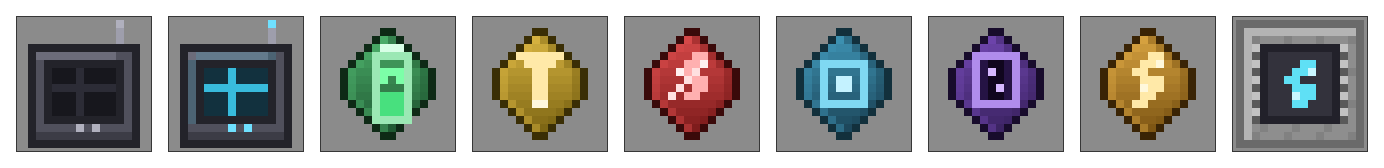
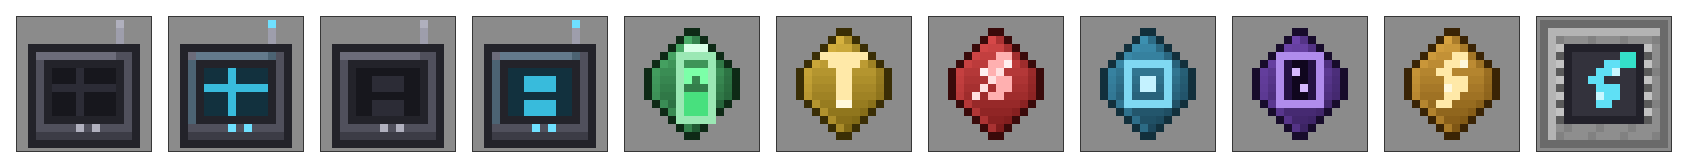
feat: 样板终端按次扣电（无 mixin）+ 快捷键接入 + 文档配图
- 扣电改走 VirtualPatternGrid#setChanged 的输出槽指纹比对：产出新样板扣 40 FE×倍率，
  付不起则回滚到上次保存的状态（样板不产出）。不再需要给 RS 菜单打 mixin（Fabric 侧
  mixin 注解处理器找不到 RS 类混淆映射，方案作废）
- 新增 AbstractWirelessTerminalItem#getStoredEnergy，会话据此判断付得起才扣
- 快捷键改为「打开无线终端」，同时认无线合成终端与无线样板终端
- README 中英加入无线样板终端（简介/内容表/章节/配方/耗电）、CHANGELOG 加 0.4.0 开发段
- gen_readme_images.py 支持新终端：物品图标 + 配方图

diff --git a/rswirelesscrafting-common/src/main/java/com/kokuu/rswirelesscrafting/common/patterngrid/VirtualPatternGrid.java b/rswirelesscrafting-common/src/main/java/com/kokuu/rswirelesscrafting/common/patterngrid/VirtualPatternGrid.java
@@ -30,24 +30,48 @@ import net.minecraft.world.level.block.Blocks;
  *       于是左侧资源栏、配方候选排序、存储读写全部走正常路径。</li>
  * </ul>
  *
- * <p>生命周期与一次开界面等长：界面打开时构造、状态从物品读入；之后任何编辑都经
- * {@link #setChanged()} 写回物品；界面关闭后对象被丢弃（它从未注册进世界，不会泄漏）。
+ * <p><b>扣电与回滚</b>：不需要给 RS 的菜单打 mixin —— 所有编辑最终都会触发 {@link #setChanged()}，
+ * 于是这里对「输出槽里是否冒出了新样板」做一次前后指纹比对：冒出来了就扣一次造样板的电，
+ * 付不起就把状态回滚到上一次保存的样子（样板从输出槽消失），两个加载器行为完全一致。
+ *
+ * <p>生命周期与一次开界面等长：界面打开时构造、状态从物品读入；之后每次编辑都写回物品；
+ * 界面关闭后对象被丢弃（它从未注册进世界，不会泄漏）。
  */
 public class VirtualPatternGrid extends PatternGridBlockEntity {
+    /**
+     * RS 存档里样板输出槽的键名（{@code PatternGridBlockEntity} 的同名私有常量）。
+     */
+    private static final String TAG_PATTERN_OUTPUT = "pattern_output";
+
     private final ItemStack stack;
     private final HolderLookup.Provider registries;
+    private final WirelessPatternGridSession session;
+    /**
+     * 「空输出槽」的序列化指纹：只有与它不同，才说明这次真的产出了样板。
+     */
+    private final String emptyOutputFingerprint;
+    private String outputFingerprint;
+    private CompoundTag lastSavedState;
     /**
      * 灌入存档状态期间置位：{@code loadAdditional} 内部会触发 {@code setChanged}，
      * 若不拦住就会把「只加载了一半」的状态写回物品，把剩下的数据冲掉。
      */
     private boolean loading;
 
-    public VirtualPatternGrid(final ItemStack stack, final Level level, @Nullable final Network network) {
+    public VirtualPatternGrid(final ItemStack stack,
+                              final Level level,
+                              @Nullable final Network network,
+                              final WirelessPatternGridSession session) {
         super(BlockPos.ZERO, Blocks.AIR.defaultBlockState());
         this.stack = stack;
         this.registries = level.registryAccess();
+        this.session = session;
+        this.emptyOutputFingerprint = outputFingerprintOf(serialize());
         setLevel(level);
         loadState();
+        // 载入之后的输出槽状态作为基线：玩家上次没取走的样板不会被重复计费。
+        this.outputFingerprint = outputFingerprintOf(serialize());
+        this.lastSavedState = serialize();
         mainNetworkNode.setNetwork(network);
     }
 
@@ -65,16 +89,44 @@ public class VirtualPatternGrid extends PatternGridBlockEntity {
     }
 
     /**
-     * 所有编辑（摆配方、放样板、切类型、清空）最终都会走到这里。
-     * 这里既不能走原版实现（会加载区块），也正好是「把状态写回物品」的天然时机。
+     * 所有编辑（摆配方、放样板、切类型、清空、产出样板）最终都会走到这里。
+     * 这里既不能走原版实现（会加载区块），也正好是「写回物品 + 结算造样板」的天然时机。
      */
     @Override
     public void setChanged() {
         if (loading) {
             return;
         }
+        final CompoundTag state = serialize();
+        final String fingerprint = outputFingerprintOf(state);
+        final boolean produced = !fingerprint.equals(outputFingerprint)
+            && !fingerprint.equals(emptyOutputFingerprint);
+        if (produced && !session.tryChargeCreatePattern()) {
+            // 电量不足：这次动作当作没发生，把上一次保存的状态恢复回去。
+            restore(lastSavedState);
+            return;
+        }
+        outputFingerprint = fingerprint;
+        lastSavedState = state;
+        stack.set(DataComponents.INSTANCE.getPatternGridState(), state);
+    }
+
+    private CompoundTag serialize() {
         final CompoundTag tag = new CompoundTag();
         saveAdditional(tag, registries);
-        stack.set(DataComponents.INSTANCE.getPatternGridState(), tag);
+        return tag;
+    }
+
+    private void restore(final CompoundTag state) {
+        loading = true;
+        try {
+            loadAdditional(state, registries);
+        } finally {
+            loading = false;
+        }
+    }
+
+    private static String outputFingerprintOf(final CompoundTag state) {
+        return state.getCompound(TAG_PATTERN_OUTPUT).toString();
     }
 }

diff --git a/gen_readme_images.py b/gen_readme_images.py
@@ -243,6 +243,7 @@ def load_assets():
         "advanced_processor": "item/advanced_processor.png",
         "basic_processor": "item/basic_processor.png",
         "machine_casing": "block/machine_casing/side.png",
+        "blank_pattern": "item/pattern/empty.png",
         "1k_storage_block": "block/storage_block/1k_storage_block.png",
         "4k_storage_block": "block/storage_block/4k_storage_block.png",
         "64k_storage_block": "block/storage_block/64k_storage_block.png",
@@ -276,6 +277,8 @@ def load_assets():
     for key, path in {
         "grid_off": "wireless_crafting_grid/inactive.png",
         "grid_on": "wireless_crafting_grid/active.png",
+        "pattern_off": "wireless_pattern_grid/inactive.png",
+        "pattern_on": "wireless_pattern_grid/active.png",
         "battery": "battery_upgrade.png",
         "range": "range_upgrade.png",
         "interdim": "interdimensional_upgrade.png",
@@ -294,8 +297,8 @@ def load_assets():
 # ================================================================== figures
 
 def items_figure(assets, path):
-    order = ["grid_off", "grid_on", "battery", "energy", "advanced", "range",
-             "interdim", "remote", "charging"]
+    order = ["grid_off", "grid_on", "pattern_off", "pattern_on", "battery", "energy",
+             "advanced", "range", "interdim", "remote", "charging"]
     scale = 8
     cell = 16 * scale + 8          # slot size, leaving a 4px inset for the sprite
     gap = 16
@@ -364,6 +367,7 @@ Q = "quartz_enriched_iron"
 A = "advanced_processor"
 M = "machine_casing"
 G = "crafting_grid"
+PT = "blank_pattern"
 H = "heart_of_the_sea"
 T = "wireless_transmitter"
 R = "network_receiver"
@@ -392,6 +396,7 @@ def main():
 
     items_figure(assets, os.path.join(OUT_DIR, "items.png"))
     for key, name in (("grid_on", "item-grid.png"),
+                      ("pattern_on", "item-wireless-pattern-grid.png"),
                       ("battery", "item-battery.png"),
                       ("energy", "item-energy.png"),
                       ("advanced", "item-advanced-energy.png"),
@@ -404,6 +409,10 @@ def main():
     recipe_figure(
         assets, os.path.join(OUT_DIR, "recipe-grid.png"),
         [[Q, A, Q], [E, G, E], [Q, M, Q]], "grid_off",
+    )
+    recipe_figure(
+        assets, os.path.join(OUT_DIR, "recipe-wireless-pattern-grid.png"),
+        [[Q, A, Q], [PT, "grid_off", PT], [Q, M, Q]], "pattern_off",
     )
     recipe_figure(
         assets, os.path.join(OUT_DIR, "recipe-battery.png"),

diff --git a/rswirelesscrafting-common/src/main/java/com/kokuu/rswirelesscrafting/common/patterngrid/WirelessPatternGridSession.java b/rswirelesscrafting-common/src/main/java/com/kokuu/rswirelesscrafting/common/patterngrid/WirelessPatternGridSession.java
@@ -1,0 +1,57 @@
+package com.kokuu.rswirelesscrafting.common.patterngrid;
+
+import com.kokuu.rswirelesscrafting.common.Platform;
+import com.kokuu.rswirelesscrafting.common.terminal.AbstractWirelessTerminalItem;
+import com.kokuu.rswirelesscrafting.common.upgrade.Upgrades;
+
+import com.refinedmods.refinedstorage.api.network.energy.EnergyNetworkComponent;
+import com.refinedmods.refinedstorage.common.api.support.network.item.NetworkItemContext;
+import net.minecraft.world.item.ItemStack;
+
+/**
+ * 一次「无线样板终端界面」会话期间的能量结算。
+ *
+ * <p>终端物品的 {@link NetworkItemContext} 在打开界面时创建、随这次会话存活；终端在整段会话里
+ * 都握着这块上下文，所以扣电与终端其它动作走完全同一条通道：同样吃距离倍率、同样受能耗插件与
+ * 远程输电插件影响。
+ *
+ * <p>付不起就**不扣**并返回 {@code false}，由调用方把这次动作当作没发生（见
+ * {@link VirtualPatternGrid#setChanged()} 的回滚）。不采用「有多少扣多少」，否则终端只剩 1 FE
+ * 时也能白嫖一张样板。
+ */
+public class WirelessPatternGridSession {
+    private final ItemStack stack;
+    private final NetworkItemContext context;
+
+    public WirelessPatternGridSession(final ItemStack stack, final NetworkItemContext context) {
+        this.stack = stack;
+        this.context = context;
+    }
+
+    /**
+     * 产出一张样板：按自动合成档计价——它服务的是自动化本身。
+     */
+    public boolean tryChargeCreatePattern() {
+        return tryCharge(Platform.getConfig().getWirelessCraftingGrid().getAutocraftingEnergyUsage());
+    }
+
+    private boolean tryCharge(final long amount) {
+        if (!canAfford(amount)) {
+            return false;
+        }
+        context.drainEnergy(amount);
+        return true;
+    }
+
+    /**
+     * 装远程输电插件时看绑定网络的存量，否则看终端自身电池——与实际扣电的取电顺序一致。
+     */
+    private boolean canAfford(final long amount) {
+        if (Upgrades.hasRemoteEnergyUpgrade(stack)) {
+            return context.resolveNetwork()
+                .map(network -> network.getComponent(EnergyNetworkComponent.class).getStored() >= amount)
+                .orElse(false);
+        }
+        return AbstractWirelessTerminalItem.getStoredEnergy(stack) >= amount;
+    }
+}

diff --git a/rswirelesscrafting-common/src/main/java/com/kokuu/rswirelesscrafting/common/AbstractClientModInitializer.java b/rswirelesscrafting-common/src/main/java/com/kokuu/rswirelesscrafting/common/AbstractClientModInitializer.java
@@ -11,11 +11,13 @@ public abstract class AbstractClientModInitializer {
         if (player == null) {
             return;
         }
-        final KeyMapping openWirelessCraftingGrid = KeyMappings.INSTANCE.getOpenWirelessCraftingGrid();
-        while (openWirelessCraftingGrid != null && openWirelessCraftingGrid.consumeClick()) {
+        final KeyMapping openWirelessTerminal = KeyMappings.INSTANCE.getOpenWirelessCraftingGrid();
+        while (openWirelessTerminal != null && openWirelessTerminal.consumeClick()) {
+            // 一个快捷键伺候所有无线终端（背包 / 饰品栏里的任意一件），不逼玩家记第二组按键。
             RefinedStorageApi.INSTANCE.useSlotReferencedItem(
                 player,
-                Items.INSTANCE.getWirelessCraftingGrid()
+                Items.INSTANCE.getWirelessCraftingGrid(),
+                Items.INSTANCE.getWirelessPatternGrid()
             );
         }
     }

diff --git a/rswirelesscrafting-common/src/main/java/com/kokuu/rswirelesscrafting/common/terminal/AbstractWirelessTerminalItem.java b/rswirelesscrafting-common/src/main/java/com/kokuu/rswirelesscrafting/common/terminal/AbstractWirelessTerminalItem.java
@@ -129,6 +129,15 @@ public abstract class AbstractWirelessTerminalItem extends AbstractNetworkEnergy
         return RefinedStorageApi.INSTANCE.asItemEnergyStorage(energyStorage, stack);
     }
 
+    /**
+     * 读回终端物品当前的存量电量（与 {@link #createEnergyStorage} 同一套包装，故数值一致）。
+     */
+    public static long getStoredEnergy(final ItemStack stack) {
+        return RefinedStorageApi.INSTANCE
+            .asItemEnergyStorage(new EnergyStorageImpl(getEnergyCapacity(stack)), stack)
+            .getStored();
+    }
+
     public static long getEnergyCapacity(final ItemStack stack) {
         final long base = Platform.getConfig().getWirelessCraftingGrid().getEnergyCapacity();
         final long perUpgrade = Platform.getConfig().getWirelessCraftingGrid().getBatteryUpgradeCapacity();

diff --git a/rswirelesscrafting-common/src/main/java/com/kokuu/rswirelesscrafting/common/patterngrid/WirelessPatternGridItem.java b/rswirelesscrafting-common/src/main/java/com/kokuu/rswirelesscrafting/common/patterngrid/WirelessPatternGridItem.java
@@ -73,7 +73,8 @@ public class WirelessPatternGridItem extends AbstractWirelessTerminalItem {
         final VirtualPatternGrid grid = new VirtualPatternGrid(
             resolved.get(),
             player.level(),
-            network.orElse(null)
+            network.orElse(null),
+            new WirelessPatternGridSession(resolved.get(), context)
         );
         com.refinedmods.refinedstorage.common.Platform.INSTANCE.getMenuOpener().openMenu(
             player,

diff --git a/README.md b/README.md
@@ -22,7 +22,7 @@
 
 给 [Refined Storage 2](https://github.com/refinedmods/refinedstorage) 补上原版缺失的**无线合成**能力。
 
-原版只有一个无线**查看**终端（`wireless_grid`）——你能远程看库存，但不能远程合成。本模组提供一个**无线合成终端**，用六张可插拔的**装配式升级插件**把它的续航、范围、维度与供能方式一路推到终局，再配一座**终端充电站**为所有 FE 终端补电。所有无线终端（含 RS 原生的无线终端与无线自动合成监视器）都遵循**按距离扣电**的线性价目表，离网络越远耗电越狠。
+原版只有一个无线**查看**终端（`wireless_grid`）——你能远程看库存，但不能远程合成。本模组提供一个**无线合成终端**与一个**无线样板终端**（远程编写自动化样板），用六张可插拔的**装配式升级插件**把它们的续航、范围、维度与供能方式一路推到终局，再配一座**终端充电站**为所有 FE 终端补电。所有无线终端（含 RS 原生的无线终端与无线自动合成监视器）都遵循**按距离扣电**的线性价目表，离网络越远耗电越狠。
 
 ![无线合成终端的未激活态与激活态，以及四张升级卡和终端充电站](docs/images/items.png)
 
@@ -33,6 +33,7 @@
 | | 名称 | 作用 | 稀有度 |
 |---|---|---|---|
 | <img src="docs/images/item-grid.png" width="40" alt=""> | **无线合成终端**<br>`wireless_crafting_grid` | 远程访问网络并**远程合成**。潜行 + 右键打开插件装配界面。 | RARE |
+| <img src="docs/images/item-wireless-pattern-grid.png" width="40" alt=""> | **无线样板终端**<br>`wireless_pattern_grid` | 远程编写**自动化样板**（合成 / 处理 / 切石 / 锻造），不用跑回样板网格。 | EPIC |
 | <img src="docs/images/item-battery.png" width="40" alt=""> | **电池升级插件**<br>`battery_upgrade` | 每张提升 **+1000 FE** 电池容量（可叠加）。前期刚需。 | RARE |
 | <img src="docs/images/item-energy.png" width="40" alt=""> | **初级能耗插件**<br>`energy_upgrade` | **距离能量倍率减半**。也是高级能耗插件的原料。 | RARE |
 | <img src="docs/images/item-advanced-energy.png" width="40" alt=""> | **高级能耗插件**<br>`advanced_energy_upgrade` | **完全消除距离能量倍率**（跨维倍率保留）。也是远程输电插件的原料。 | EPIC |
@@ -52,6 +53,17 @@
 - 拆下来的插件原样回到背包，不会蒸发。
 
 > 这套装配界面取代了早期的「工作台无序合成永久改造」方案——那样装上去就拿不下来了。旧方案的自定义配方与序列化器已从代码中删除。
+
+## 无线样板终端
+
+自动化做起来之后，最烦的一步不是合成，而是**改配方**——方块版的样板网格在基地里，矿场、下界、外岛想加一条产线就得来回跑。无线样板终端把这一步也搬到手上：**右键打开的是 RS 原汁原味的样板网格界面**（左侧资源栏、四种样板类型、JEI/REI 配方转移、样板复制全都在），但那座网格其实「装在你的终端里」。
+
+- 界面与消耗：开界面 **5 FE × 距离倍率**；**产出一张样板 40 FE × 距离倍率**（按自动合成档计价，因为它服务的是自动化本身）。电量不足时样板不会产出（终端没电就配不了样板）。
+- 「网格」本身是虚拟的：没有方块、不占区块、不用给它接线，登录进去就是它绑定的那张网络。
+- 编辑状态**存在终端物品里**：配方区、样板类型、模糊模式、输出槽里没取走的样板，关掉界面再打开原样还在。
+- 配方见下方「配方」一节，属终局件——它需要先有一台无线合成终端。
+
+<img src="docs/images/recipe-wireless-pattern-grid.png" width="270" alt="无线样板终端配方">
 
 ## 充电站
 
@@ -110,6 +122,8 @@
 | 装了**电池升级插件** | 同上，但容量 **+1000 FE / 张** | 同上 |
 | 装了**远程输电插件** | **直接扣所绑定网络的能量**，终端自身电池不再掉电；网络无电或未绑定时自动回落成出厂行为 | 同上 |
 
+> 无线样板终端同价目：开界面 5 · **产出一张样板 40**。它的「创建样板」按钮按下时会先查电量，付不起就当作没发生。
+
 基础电池容量只有 **400 FE**，而距离倍率能把单次动作抬到几十甚至上百 FE——所以**电池升级插件是前期刚需**：不装它，走远一点终端很快就见底，只能反复跑回充电站。合成类动作（合成 20 / 自动合成 40）显著贵于查看（5），这正是合成终端相对普通无线终端的额外成本。
 
 ## 环境
@@ -164,7 +178,7 @@
 
 ## 配方
 
-八件内容大多定位为**后期到终局**：材料取自 Refined Storage 自带的无线设备与递归存储元件、原版最稀有的掉落。只有**电池升级插件**、**初级能耗插件**与**终端充电站**刻意压低到前中期——它们负责把曲线撑平，剩下的都是终局件。
+九件内容大多定位为**后期到终局**：材料取自 Refined Storage 自带的无线设备与递归存储元件、原版最稀有的掉落。只有**电池升级插件**、**初级能耗插件**与**终端充电站**刻意压低到前中期——它们负责把曲线撑平，剩下的都是终局件。
 
 ### 无线合成终端
 
@@ -173,6 +187,14 @@
 `Q` 石英富集铁 · `A` 高级处理器 · `P` 末影珍珠 · `G` `refinedstorage:crafting_grids` 标签（任意合成网格）· `M` 机器外壳
 
 合计约 14 石英铁 + 2 末影珍珠 + 2 高级处理器 + 1 合成网格，约为 RS 自带「无线终端」的 **2.3 倍**——多出来的是「可合成」这份能力。
+
+### 无线样板终端
+
+<img src="docs/images/recipe-wireless-pattern-grid.png" width="270" alt="无线样板终端配方">
+
+`Q` 石英富集铁 · `A` 高级处理器 · `T` 空白样板 · `P` 无线合成终端 · `M` 机器外壳
+
+它是**唯一一件「用终端造终端」**的配方：中心那格要放一台做好的无线合成终端，前后用**空白样板**（RS 的样板基底）夹住——语义直白：这台终端是「写样板的终端」。定价与合成终端同档，属终局。
 
 ### 电池升级插件（前期刚需）
 
@@ -350,7 +372,7 @@ export JAVA_HOME="/path/to/jdk-21"
 
 An addon for **[Refined Storage 2](https://github.com/refinedmods/refinedstorage)** that adds the wireless **crafting** grid the base mod never had.
 
-Vanilla Refined Storage ships only a wireless *viewing* grid — you can browse your network remotely, but not craft on it. This mod adds a **Wireless Crafting Grid**, six swappable **upgrade cards** that extend its endurance, range, dimensions and power source all the way to endgame, plus a **Terminal Charging Station** that recharges every FE-based terminal. Every wireless terminal (including RS's own wireless grid and wireless autocrafting monitor) follows a **distance-based energy tariff** — the further you are from the network, the more each action costs.
+Vanilla Refined Storage ships only a wireless *viewing* grid — you can browse your network remotely, but not craft on it. This mod adds a **Wireless Crafting Grid** and a **Wireless Pattern Terminal** (write autocrafting patterns remotely), six swappable **upgrade cards** that extend their endurance, range, dimensions and power source all the way to endgame, plus a **Terminal Charging Station** that recharges every FE-based terminal. Every wireless terminal (including RS's own wireless grid and wireless autocrafting monitor) follows a **distance-based energy tariff** — the further you are from the network, the more each action costs.
 
 <img src="docs/images/items.png" width="620" alt="Wireless crafting grid (inactive and active), the six upgrade cards, and the terminal charging station">
 
@@ -361,6 +383,7 @@ Vanilla Refined Storage ships only a wireless *viewing* grid — you can browse 
 | | Item | Effect | Rarity |
 |---|---|---|---|
 | <img src="docs/images/item-grid.png" width="40" alt=""> | **Wireless Crafting Grid**<br>`wireless_crafting_grid` | Access your network remotely **and craft**. Sneak + right-click to open the upgrade panel. | rare |
+| <img src="docs/images/item-wireless-pattern-grid.png" width="40" alt=""> | **Wireless Pattern Terminal**<br>`wireless_pattern_grid` | Write **autocrafting patterns** (crafting / processing / stonecutter / smithing) remotely. | epic |
 | <img src="docs/images/item-battery.png" width="40" alt=""> | **Battery Upgrade**<br>`battery_upgrade` | **+1000 FE** capacity each (stacks). The early-game must-have. | rare |
 | <img src="docs/images/item-energy.png" width="40" alt=""> | **Energy Upgrade**<br>`energy_upgrade` | **Halves** the distance energy multiplier. Ingredient of the Advanced Energy Upgrade. | rare |
 | <img src="docs/images/item-advanced-energy.png" width="40" alt=""> | **Advanced Energy Upgrade**<br>`advanced_energy_upgrade` | **Removes** the distance multiplier (cross-dimension still applies). Ingredient of the Remote Energy Upgrade. | epic |
@@ -380,6 +403,17 @@ Cards are **not** baked into a crafting recipe. **Sneak + right-click** any wire
 - Removed cards return to your inventory intact.
 
 > This replaced the earlier "shapeless crafting-table, permanent modification" design, where an installed card could never come back out. Those custom recipe classes have been deleted from the codebase.
+
+### Wireless Pattern Terminal
+
+Once your base is automated, the annoying part is not crafting — it is **editing recipes**: the block Pattern Grid lives back at base, so every new production line in a far-away outpost means a trip home. The Wireless Pattern Terminal brings that step to your hand: right-clicking it opens **RS's own Pattern Grid UI** (resource list, all four pattern types, JEI/REI recipe transfer, pattern copying — everything), but the grid itself "lives inside your terminal".
+
+- Costs: opening the UI is **5 FE × distance multiplier**; **producing one pattern is 40 FE × distance multiplier** (priced like autocrafting, because that is what it feeds). With too little energy no pattern is produced — no power, no pattern.
+- The grid is virtual: no block, no chunk loading, no cables. You log into whatever network the terminal is bound to.
+- The editing state is **stored on the item**: matrix, pattern type, fuzzy mode and any pattern still sitting in the output slot all survive closing and reopening the UI.
+- It is an endgame craft (see Recipes) — you need a Wireless Crafting Grid first.
+
+<img src="docs/images/recipe-wireless-pattern-grid.png" width="270" alt="Wireless pattern terminal recipe">
 
 ### Charging Station
 
@@ -437,6 +471,8 @@ Three energy upgrades form a non-wasteful nesting chain for this:
 | Stock | The terminal's **own battery** (400 FE) | open 5 · craft 20 · autocraft 40 · clear matrix 5 · recipe transfer 5 |
 | **Battery Upgrade** installed | Same, but capacity **+1000 FE per card** | unchanged |
 | **Remote Energy Upgrade** installed | **Straight out of the bound network**; the terminal's battery is untouched. Falls back to stock behaviour if the network is empty or unbound. | unchanged |
+
+The Wireless Pattern Terminal shares the same tariff: open 5, **produce one pattern 40**. Its "create pattern" button checks your energy first — if you cannot pay, nothing happens.
 
 The base battery is only **400 FE**, while the distance multiplier can push a single action into the tens or hundreds of FE — so the **Battery Upgrade is an early-game necessity**: without it the terminal runs dry fast once you wander away, forcing you to trudge back to a charging station. Crafting actions (craft 20 / autocraft 40) cost far more than viewing (5), which is the extra price of a crafting terminal over a plain viewing terminal.
 

diff --git a/CHANGELOG.md b/CHANGELOG.md
@@ -2,6 +2,22 @@
 
 本项目遵循[语义化版本](https://semver.org/lang/zh-CN/)。所有显著变更都会记录在此。
 
+## [0.4.0] - 未发布（开发中）
+
+> 版本号当前为 `0.4.0-SNAPSHOT`，尚未发版；以下内容已实现并进入测试实例验证。
+
+### 新增
+- **无线样板终端**（`wireless_pattern_grid`）：远程编写自动化样板，不用再跑回基地的样板网格。
+  - 界面**直接复用 RS 原版样板网格**：资源栏、合成 / 处理 / 切石 / 锻造四种样板类型、JEI / REI 配方转移、样板复制全部原样可用。
+  - 实现不走界面复刻：本模组造一个**脱离世界存在**的样板网格方块实体（不注册节点、不加载区块、不接线），菜单仍由 RS 原版类构造，因此 RS 自己的数据包与界面照常工作。
+  - 编辑状态（配方区、样板类型、模糊模式、输出槽里没取走的样板）**存在终端物品的数据组件里**，关掉界面再打开原样还在。
+  - 距离耗电：开界面 **5 FE × 倍率**、**产出一张样板 40 FE × 倍率**；电量不足时样板不产出。
+- 快捷键改为「打开无线终端」，背包 / 饰品栏里放着**任意一件**本模组终端（合成或样板）都能用同一个键打开。
+- 无线样板终端同样支持六张升级插件与 Curios / Trinkets 饰品栏。
+
+### 内部
+- 抽出 `AbstractWirelessTerminalItem` 基类：电池容量、绑定 / 距离悬停提示、插件装配界面、距离感知上下文注入全部收敛到一处，新增终端只需实现「打开什么界面」+ 两条文案。
+
 ## [0.3.2] - 2026-10-15
 
 ### 修复
